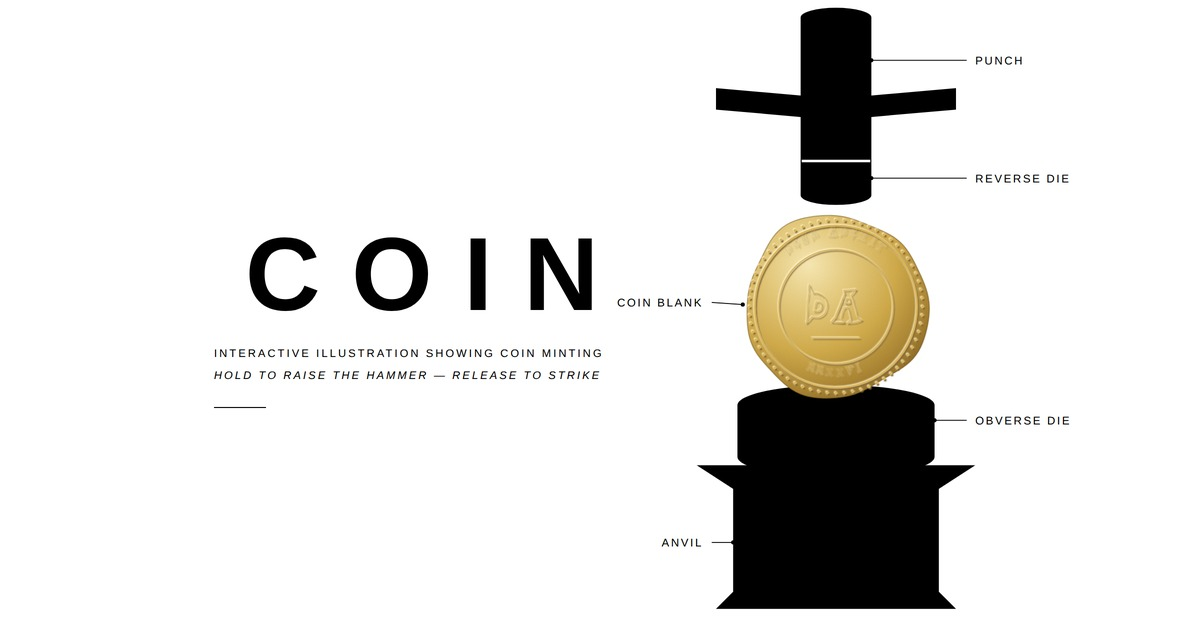
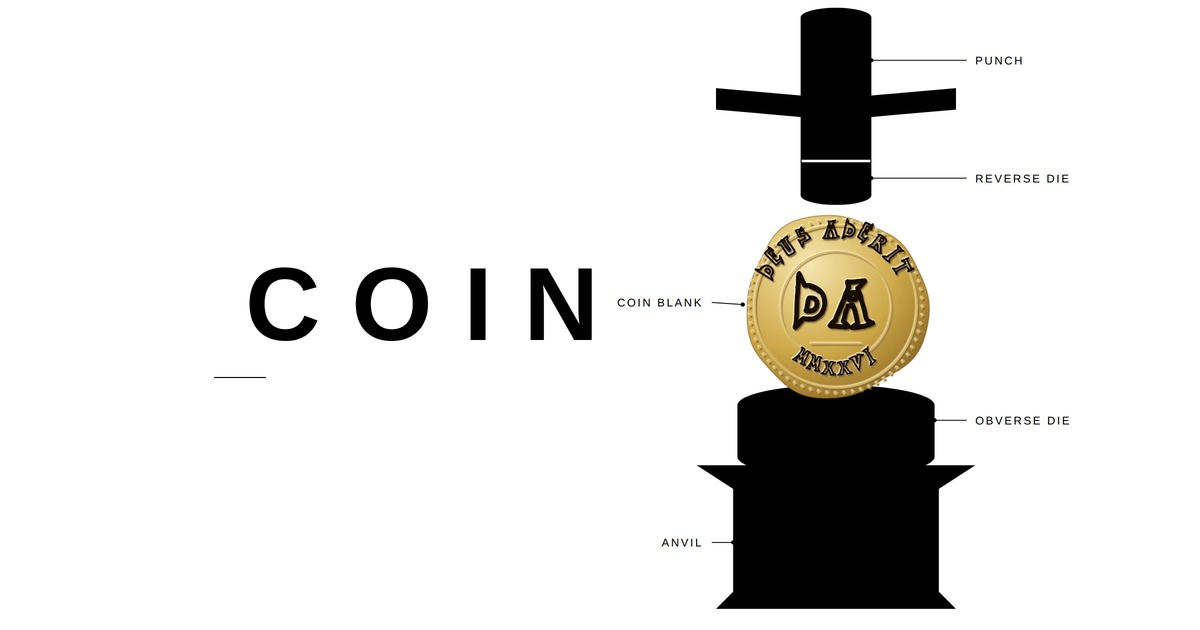
coin: mintable face, legible black legend, trim redundant text

Changed region(s): [[0.185, 0.3619, 0.4933, 0.6032], [0.6167, 0.3317, 0.7708, 0.6032]]

diff --git a/YELLOW BOX/coin/index.html b/YELLOW BOX/coin/index.html
@@ -24,10 +24,8 @@ body{background:var(--wall);color:var(--ink);
   overflow-x:hidden;text-transform:uppercase;}
 .wrap{max-width:1180px;margin:0 auto;padding:44px 34px 70px}
 
-header{text-align:center;margin-bottom:6px}
+header{text-align:center;margin-bottom:10px}
 h1{font-size:clamp(46px,9vw,104px);font-weight:700;letter-spacing:.30em;text-indent:.30em;line-height:1}
-.sub{margin-top:16px;font-size:11px;letter-spacing:.20em;line-height:2}
-.sub em{font-style:italic}
 .hr{width:52px;height:1px;background:#000;margin:20px auto 0}
 
 .stage{display:grid;grid-template-columns:1fr 330px;gap:30px;align-items:start;margin-top:26px}
@@ -99,14 +97,12 @@ input[type=text]::placeholder{color:#000;opacity:.35}
 .acts button{flex:1;padding:12px 6px;background:transparent;border:1px solid #000;color:#000;
   font-family:inherit;font-size:9px;letter-spacing:.16em;text-transform:uppercase;cursor:pointer}
 .acts button:hover{background:rgba(0,0,0,.06)}
-.hint{margin-top:14px;font-size:9.5px;letter-spacing:.14em;line-height:2}
 
 .caption{margin-top:46px;text-align:center;font-size:10.5px;letter-spacing:.17em;line-height:2.1}
 .caption em{font-style:italic}
 
 @media (max-width:900px){
   .wrap{padding:28px 20px 116px}
-  .sub{font-size:10px;letter-spacing:.14em}
   .diagram svg{max-height:none}
   .strike{position:fixed;left:16px;right:16px;bottom:14px;width:auto;z-index:20;margin:0;
     background:rgba(255,255,255,.95);-webkit-backdrop-filter:blur(10px);backdrop-filter:blur(10px)}
@@ -117,8 +113,6 @@ input[type=text]::placeholder{color:#000;opacity:.35}
 <div class="wrap">
 <header>
   <h1>COIN</h1>
-  <div class="sub">Interactive illustration showing coin minting<br>
-    <em>hold to raise the hammer &mdash; release to strike</em></div>
   <div class="hr"></div>
 </header>
 
@@ -196,13 +190,10 @@ input[type=text]::placeholder{color:#000;opacity:.35}
     <button id="dl">Download</button>
     <button id="again">New blank</button>
   </div>
-  <div class="hint">Hold longer for a heavier blow. Two or three good ones raise the full relief.
-    Space bar works too. Drag the blank to frame a picture.</div>
 </div>
 </div>
 
-<div class="caption">Illustration showing coin minting<br>
-  <em>after a museum panel &mdash; hammer, punch, dies, blank, anvil</em></div>
+<div class="caption">Illustration showing coin minting</div>
 </div>
 
 <script>
@@ -254,15 +245,21 @@ function buildCoin(root,name,S,uid){
   emb.appendChild(el("feDropShadow",{dx:"1.2",dy:"1.5",stdDeviation:".6","flood-color":GD,"flood-opacity":"1"}));
   emb.appendChild(el("feDropShadow",{dx:"-.9",dy:"-1.1",stdDeviation:".5","flood-color":GH,"flood-opacity":".85"}));
   defs.appendChild(emb);
+  /* Type needs its own treatment — the chained emboss haloes small glyphs
+     and fills their counters. Incuse instead: dark cut, one catch-light. */
+  const et=el("filter",{id:"et"+u,x:"-14%",y:"-14%",width:"128%",height:"128%"});
+  et.appendChild(el("feDropShadow",{dx:"-.5",dy:"-.7",stdDeviation:".3",
+    "flood-color":"#ffeeb6","flood-opacity":".95"}));
+  defs.appendChild(et);
   const gr=el("filter",{id:"t"+u,x:"-2%",y:"-2%",width:"104%",height:"104%"});
   gr.appendChild(el("feTurbulence",{type:"fractalNoise",baseFrequency:".85",numOctaves:"3",
     seed:String(h%1000),result:"n"}));
   gr.appendChild(el("feColorMatrix",{type:"saturate",values:"0",in:"n",result:"gy"}));
   gr.appendChild(el("feComposite",{in:"gy",in2:"SourceAlpha",operator:"in"}));
   defs.appendChild(gr);
-  defs.appendChild(el("path",{id:"tp"+u,d:"M -76,0 A 76 76 0 0 1 76,0",fill:"none"}));
-  defs.appendChild(el("path",{id:"bp"+u,d:"M -76,0 A 76 76 0 0 0 76,0",fill:"none"}));
-  const cp=el("clipPath",{id:"fc"+u});cp.appendChild(el("circle",{r:58}));defs.appendChild(cp);
+  defs.appendChild(el("path",{id:"tp"+u,d:"M -74,0 A 74 74 0 0 1 74,0",fill:"none"}));
+  defs.appendChild(el("path",{id:"bp"+u,d:"M -74,0 A 74 74 0 0 0 74,0",fill:"none"}));
+  const cp=el("clipPath",{id:"fc"+u});cp.appendChild(el("circle",{r:56}));defs.appendChild(cp);
   const vg=el("radialGradient",{id:"v"+u,cx:"50%",cy:"50%",r:"50%"});
   vg.appendChild(el("stop",{offset:"58%","stop-color":"#a67f2c","stop-opacity":"0"}));
   vg.appendChild(el("stop",{offset:"100%","stop-color":"#a67f2c","stop-opacity":".9"}));
@@ -280,28 +277,37 @@ function buildCoin(root,name,S,uid){
     const sz=116*(pzoom/100);
     hold.appendChild(el("image",{href:portrait,x:-sz/2+pox,y:-sz/2+poy,width:sz,height:sz,
       preserveAspectRatio:"xMidYMid slice","class":"pic"}));
-    hold.appendChild(el("circle",{r:58,fill:"url(#v"+u+")"}));
+    hold.appendChild(el("circle",{r:56,fill:"url(#v"+u+")"}));
     g.appendChild(hold);
   }
   const dev=el("g",{filter:"url(#e"+u+")",fill:"none",stroke:GM,"stroke-width":1.6});
   dev.appendChild(el("circle",{r:88,"stroke-width":1.8}));
-  dev.appendChild(el("circle",{r:62,"stroke-width":1.2}));
+  dev.appendChild(el("circle",{r:60,"stroke-width":1.2}));
   for(let i=0;i<64;i++){const a=i/64*6.283;
     dev.appendChild(el("circle",{cx:(Math.cos(a)*94).toFixed(2),cy:(Math.sin(a)*94).toFixed(2),
       r:1.5,fill:GM,stroke:"none"}))}
-  const arc=(pid,txt,size)=>{
-    const t=el("text",{fill:GM,stroke:"none","font-size":size,"letter-spacing":2.2,
+  const TXT="#120c01", ADV=.518, LS=2.2;
+  /* GOTHICC averages .518em per cap — size the legend to fill its arc */
+  const fit=(txt,maxS)=>{
+    const avail=Math.PI*74*.90;
+    return Math.max(11,Math.min(maxS,(avail/Math.max(1,txt.length)-LS)/ADV));
+  };
+  const arc=(pid,txt,maxS)=>{
+    const size=fit(txt,maxS);
+    const t=el("text",{fill:TXT,stroke:TXT,"stroke-width":(size*.062).toFixed(2),
+      "stroke-linejoin":"round","font-size":size.toFixed(1),"letter-spacing":LS,
       "font-family":COINF,"font-weight":"400"});
     const tp=el("textPath",{startOffset:"50%","text-anchor":"middle"});
     tp.setAttribute("href","#"+pid+u); tp.textContent=txt; t.appendChild(tp); dev.appendChild(t)};
-  arc("tp",(S==="o"?(name||"UNSTRUCK").toUpperCase():"VICTORIA").slice(0,16),17);
-  arc("bp",S==="o"?YEAR:"CONOB",14);
+  arc("tp",(S==="o"?(name||"UNSTRUCK").toUpperCase():"VICTORIA").slice(0,16),29);
+  arc("bp",S==="o"?YEAR:"CONOB",25);
   if(S==="o"){
     if(!portrait){
-      const m=el("text",{x:0,y:18,fill:GM,stroke:"none","font-size":56,"text-anchor":"middle",
-        "letter-spacing":2,"font-family":COINF,"font-weight":"400"});
+      const m=el("text",{x:0,y:23,fill:TXT,stroke:TXT,"stroke-width":"4.4","stroke-linejoin":"round",
+        "font-size":78,"text-anchor":"middle","letter-spacing":2,
+        "font-family":COINF,"font-weight":"400"});
       m.textContent=initials(name); dev.appendChild(m);
-      dev.appendChild(el("path",{d:"M -26 34 L 26 34","stroke-width":1.1}));
+      dev.appendChild(el("path",{d:"M -28 40 L 28 40","stroke-width":1.6}));
     }
   }else{
     const steps=3+(h%2), sw=13+((h>>4)%5), cr=el("g",{});
@@ -316,31 +322,53 @@ function buildCoin(root,name,S,uid){
   g.appendChild(dev); root.appendChild(g);
 }
 
-/* ---------------- photo -> struck bas-relief ---------------- */
+/* ---------------- photo -> a face simple enough to strike ----------------
+   A die cannot hold photographic detail. Auto-level, smooth the texture away,
+   quantise to a handful of planes, round the steps, then light them — which is
+   how an engraver reduces a likeness to something a punch can carry. */
+function blurF(src,S,r){
+  const N=S*S,t=new Float32Array(N),o=new Float32Array(N);
+  for(let y=0;y<S;y++){let s=0;
+    for(let k=-r;k<=r;k++)s+=src[y*S+Math.min(S-1,Math.max(0,k))];
+    for(let X=0;X<S;X++){t[y*S+X]=s/(2*r+1);
+      s+=src[y*S+Math.min(S-1,X+r+1)]-src[y*S+Math.max(0,X-r)]}}
+  for(let X=0;X<S;X++){let s=0;
+    for(let k=-r;k<=r;k++)s+=t[Math.min(S-1,Math.max(0,k))*S+X];
+    for(let y=0;y<S;y++){o[y*S+X]=s/(2*r+1);
+      s+=t[Math.min(S-1,y+r+1)*S+X]-t[Math.max(0,y-r)*S+X]}}
+  return o}
+
 function toRelief(img){
-  const S=560,c=document.createElement("canvas");c.width=c.height=S;
+  const S=512,PLANES=5,SMOOTH=4,ROUND=5,LIGHT=4,TONE=.95;
+  const c=document.createElement("canvas");c.width=c.height=S;
   const x=c.getContext("2d"),sc=Math.max(S/img.width,S/img.height);
-  const w=img.width*sc,h=img.height*sc;
-  x.drawImage(img,(S-w)/2,(S-h)/2,w,h);
-  const d=x.getImageData(0,0,S,S),p=d.data,N=S*S,lum=new Float32Array(N);
-  for(let i=0,j=0;j<N;i+=4,j++)lum[j]=(.299*p[i]+.587*p[i+1]+.114*p[i+2])/255;
-  const blur=(src,r)=>{const t=new Float32Array(N),o=new Float32Array(N);
-    for(let y=0;y<S;y++){let s=0;for(let k=-r;k<=r;k++)s+=src[y*S+Math.min(S-1,Math.max(0,k))];
-      for(let X=0;X<S;X++){t[y*S+X]=s/(2*r+1);
-        s+=src[y*S+Math.min(S-1,X+r+1)]-src[y*S+Math.max(0,X-r)]}}
-    for(let X=0;X<S;X++){let s=0;for(let k=-r;k<=r;k++)s+=t[Math.min(S-1,Math.max(0,k))*S+X];
-      for(let y=0;y<S;y++){o[y*S+X]=s/(2*r+1);
-        s+=t[Math.min(S-1,y+r+1)*S+X]-t[Math.max(0,y-r)*S+X]}}
-    return o};
-  const hm=blur(lum,2),soft=blur(lum,14);
+  x.drawImage(img,(S-img.width*sc)/2,(S-img.height*sc)/2,img.width*sc,img.height*sc);
+  const d=x.getImageData(0,0,S,S),px=d.data,N=S*S;
+  let lum=new Float32Array(N);
+  for(let i=0,j=0;j<N;i+=4,j++)lum[j]=(.299*px[i]+.587*px[i+1]+.114*px[i+2])/255;
+
+  /* auto-level off the 2nd/98th percentile so any exposure engraves the same */
+  const hist=new Array(256).fill(0);
+  for(let j=0;j<N;j++)hist[Math.round(lum[j]*255)]++;
+  let lo=0,hi=255,acc=0;
+  for(let i=0;i<256;i++){acc+=hist[i];if(acc>N*.02){lo=i;break}}
+  acc=0;for(let i=255;i>=0;i--){acc+=hist[i];if(acc>N*.02){hi=i;break}}
+  const rng=Math.max(1,hi-lo);
+  for(let j=0;j<N;j++)lum[j]=Math.min(1,Math.max(0,(lum[j]*255-lo)/rng));
+
+  let m=blurF(lum,S,SMOOTH);                                   /* lose the texture */
+  for(let j=0;j<N;j++)m[j]=Math.round(m[j]*(PLANES-1))/(PLANES-1);  /* few planes */
+  m=blurF(m,S,ROUND);                                          /* round the steps */
+
   for(let y=0;y<S;y++)for(let X=0;X<S;X++){
     const j=y*S+X,xm=X>0?j-1:j,xp=X<S-1?j+1:j,ym=y>0?j-S:j,yp=y<S-1?j+S:j;
-    const gx=hm[xp]-hm[xm],gy=hm[yp]-hm[ym];
-    let v=.5+(-gx*.72-gy*.72)*5.4+(hm[j]-soft[j])*1.5+(soft[j]-.5)*.30;
+    const gx=m[xp]-m[xm],gy=m[yp]-m[ym];
+    let v=.5+(-gx*.72-gy*.72)*LIGHT+(m[j]-.5)*TONE;
     v=v<0?0:v>1?1:v;
-    const i=j*4;p[i]=58+v*196;p[i+1]=42+v*190;p[i+2]=16+v*158;p[i+3]=255}
+    v=Math.pow(v,.80);                     /* lift the mids off the floor */
+    const i=j*4;px[i]=74+v*180;px[i+1]=56+v*176;px[i+2]=24+v*148;px[i+3]=255}
   x.putImageData(d,0,0);
-  return c.toDataURL("image/jpeg",.9)}
+  return c.toDataURL("image/jpeg",.92)}
 
 function loadPic(f){
   if(!f||!/^image\//.test(f.type))return;
